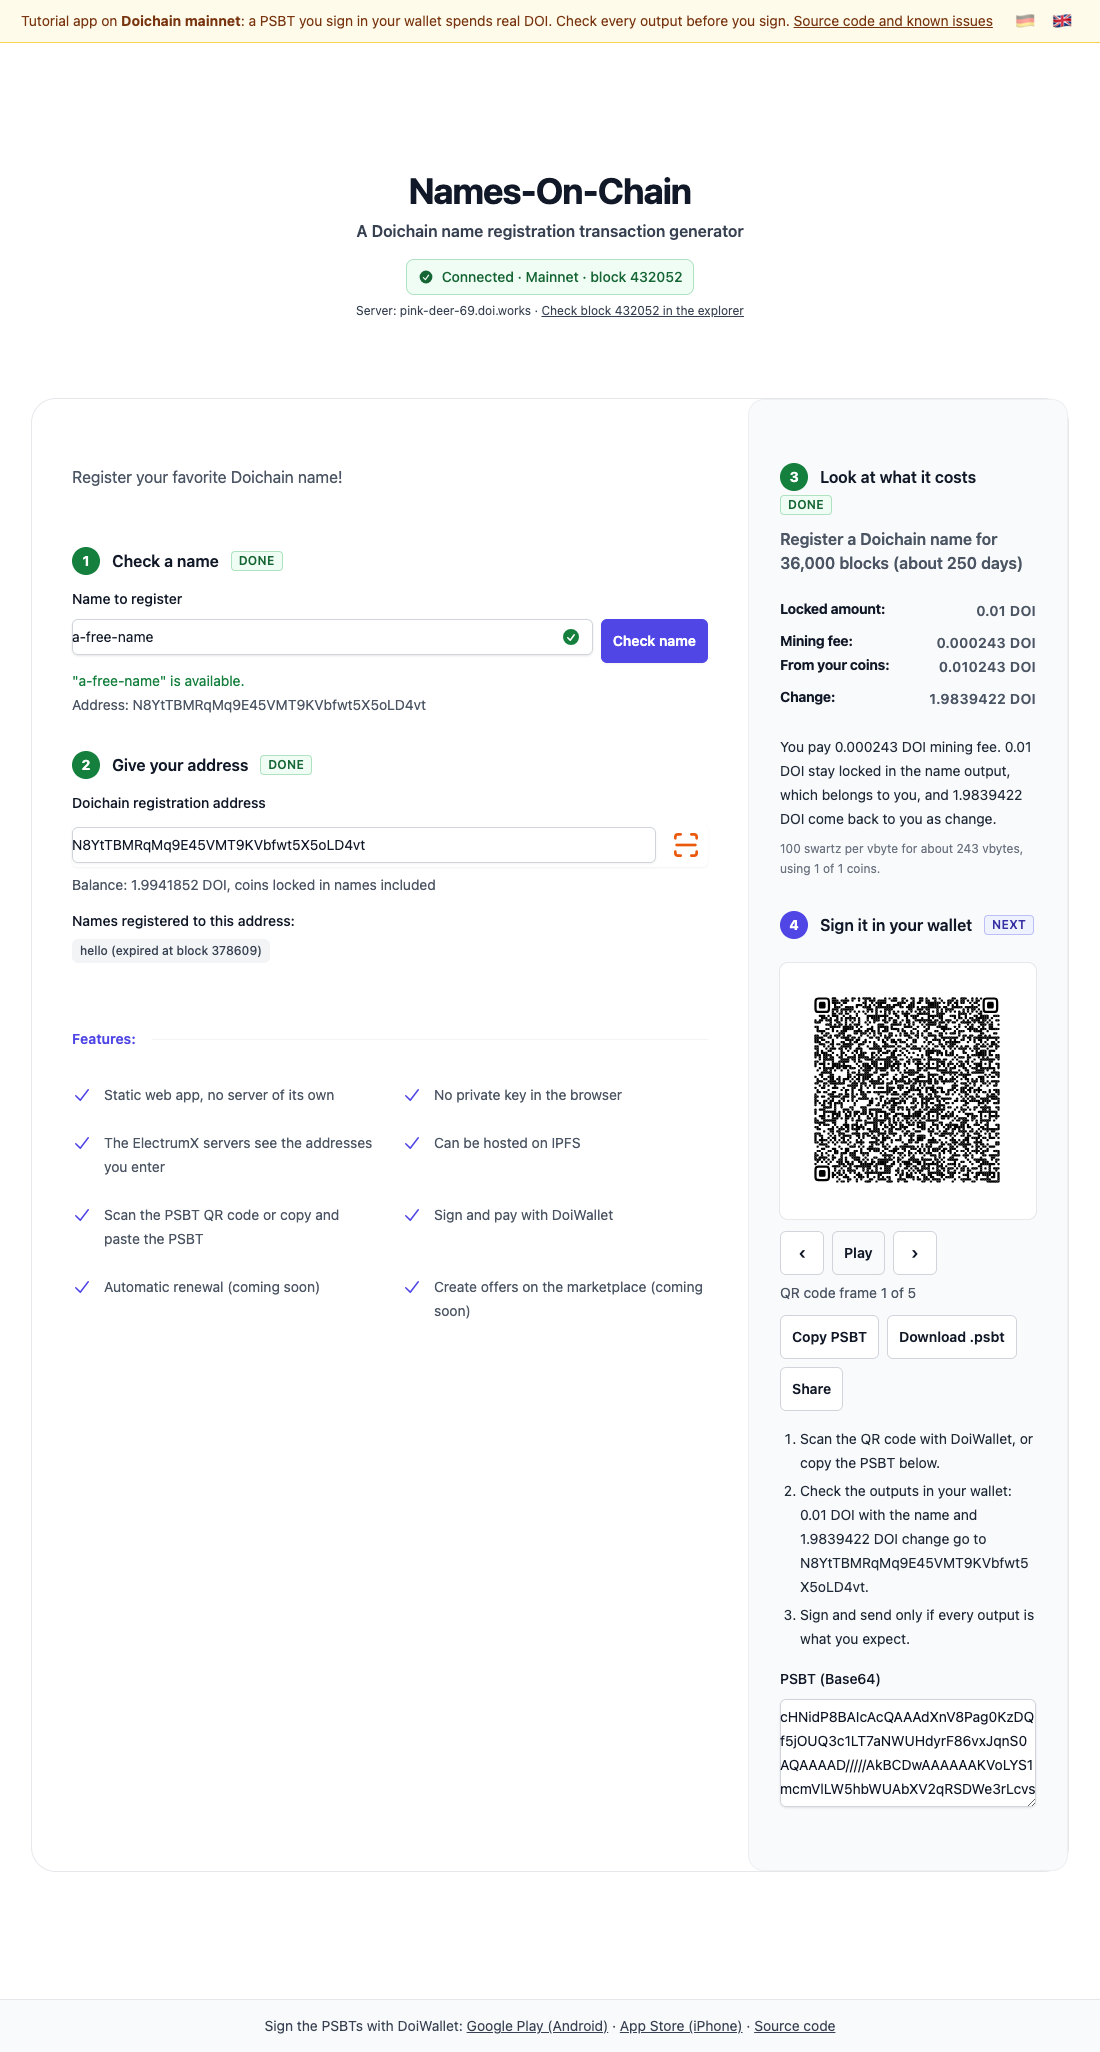
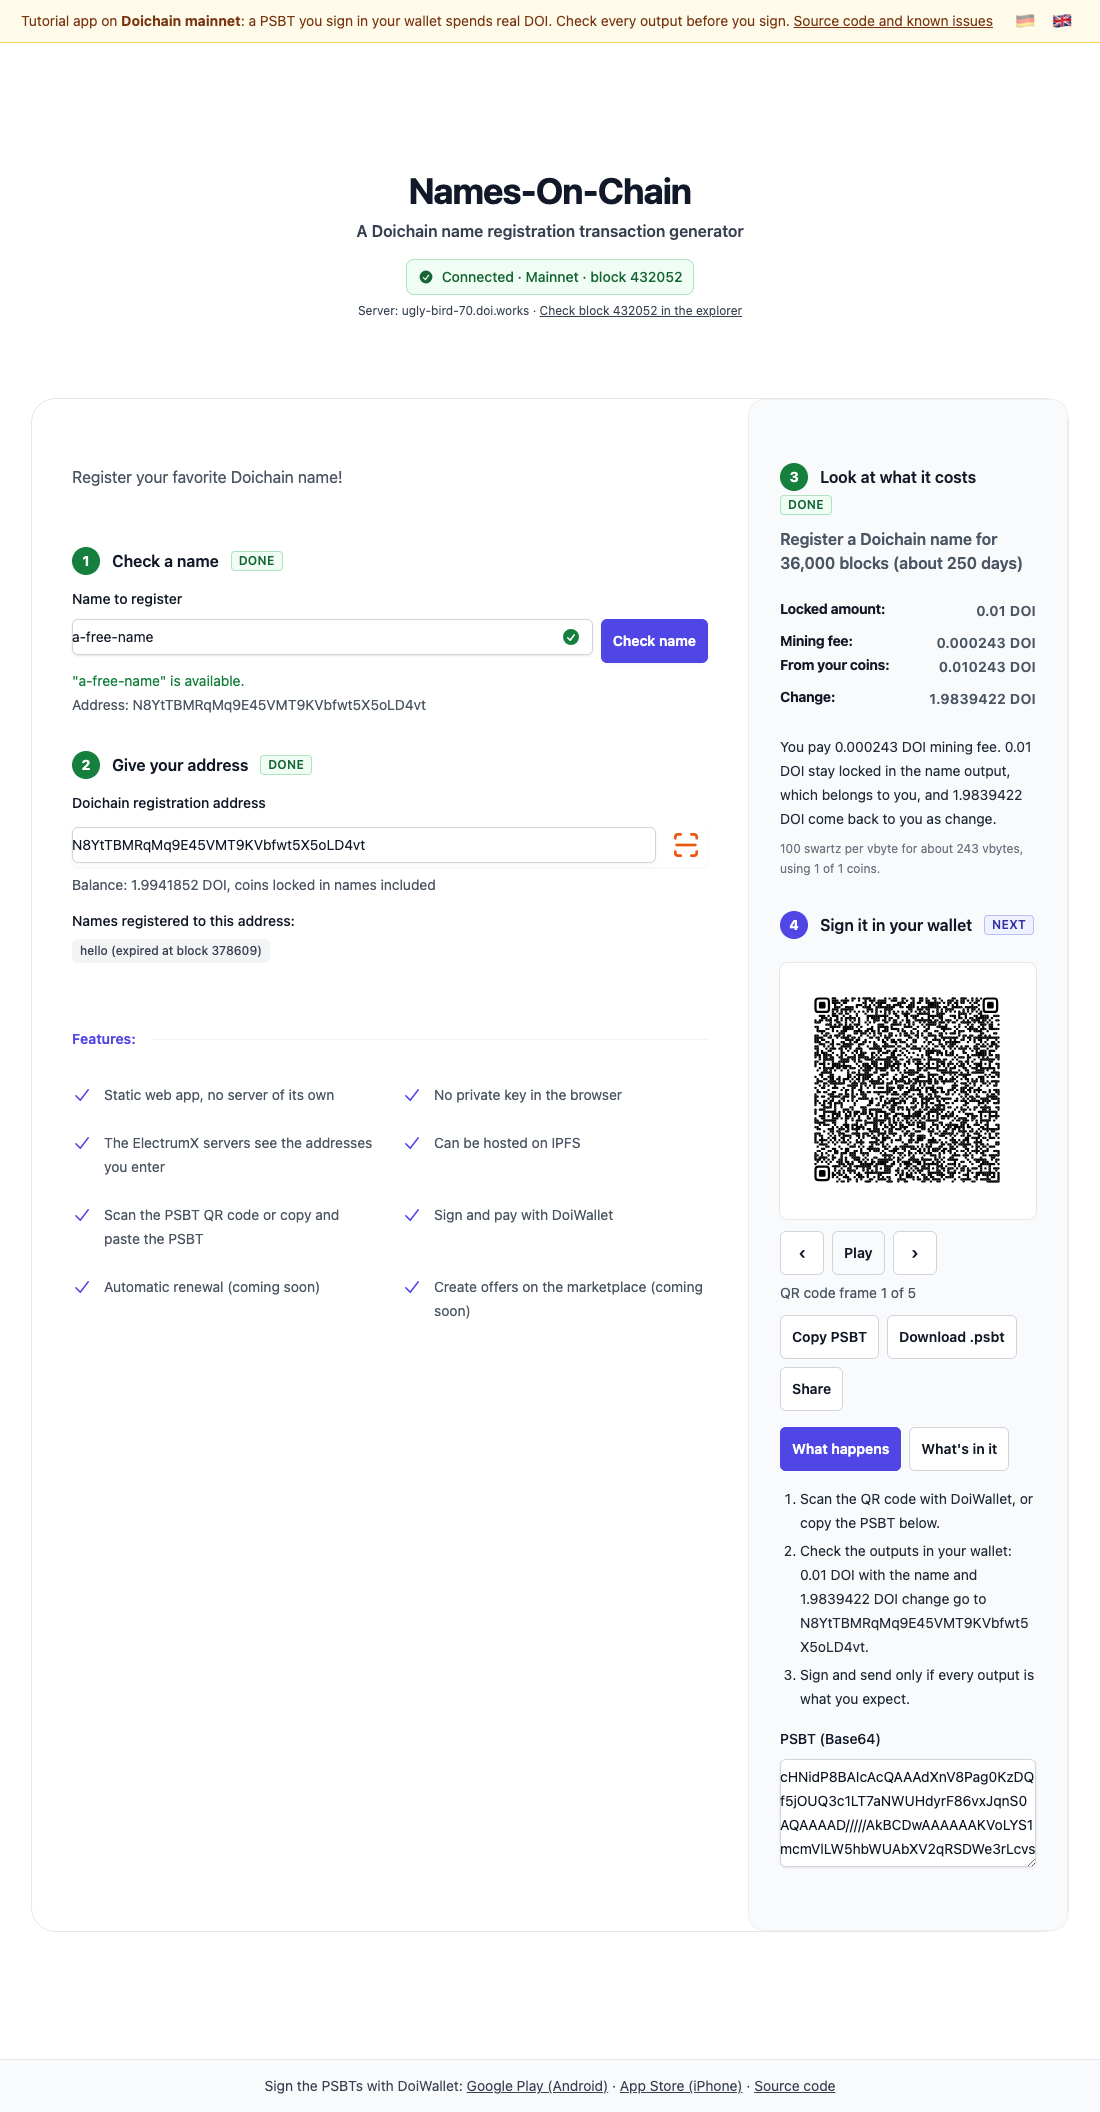
feat: two ways to look at a PSBT
Next to the QR code the page now switches between what happens – the
steps, as before – and what is in it: the version, the coins the
transaction spends, where they go, the name script as hex and read out,
and what is left for the miners (Doichain/names-on-chain#12).

Everything comes from `describePsbt.js`, which reads the PSBT the way the
wallet will read it, so nothing in the technical view depends on what a
server said. Four unit tests and one browser test walk it.

diff --git a/src/lib/components/PsbtQr.svelte b/src/lib/components/PsbtQr.svelte
@@ -1,6 +1,9 @@
 <script>
 	import { onDestroy, tick } from 'svelte';
+	import sb from 'satoshi-bitcoin';
 	import { _ } from '$lib/i18n/index.js';
+	import { describePsbt } from '$lib/doichain/describePsbt.js';
+	import { network } from '$lib/doichain/doichain-store.js';
 	import { renderBCUR } from '$lib/doichain/renderQR.js';
 
 	/** the PSBT to hand over, Base64, or undefined while there is nothing to hand over */
@@ -36,6 +39,34 @@
 
 	/** The QR code, brought into view on small screens once it is created */
 	let qrContainer;
+
+	/** 'simple' says what happens, 'technical' what the wallet will read */
+	let view = 'simple';
+
+	/** The PSBT as the wallet reads it; undefined while nothing is to be shown */
+	$: details = view === 'technical' && psbt ? read(psbt) : undefined;
+
+	/** @param {string} base64 */
+	function read(base64) {
+		try {
+			return describePsbt(base64, $network);
+		} catch (error) {
+			console.error('Could not read the PSBT:', error);
+			return undefined;
+		}
+	}
+
+	/** the transaction version, the way Doichain writes it */
+	const hex = (version) => '0x' + version.toString(16);
+
+	/** what an output pays to: the name, an address, or a script without one */
+	const payee = (output) =>
+		output.isName
+			? $_('psbt.technical.nameOutput') +
+				' (' +
+				(output.address ?? $_('psbt.technical.unknownAddress')) +
+				')'
+			: (output.address ?? $_('psbt.technical.unknownAddress'));
 
 	/** Sharing files (e.g. to DoiWallet on the same phone) works in this browser */
 	const canShareFiles = (() => {
@@ -239,9 +270,67 @@
 			<p class="mt-2 text-sm text-red-600">{$_('psbt.copyFailed')}</p>
 		{/if}
 	</div>
-	<ol class="mt-4 list-decimal space-y-1 break-words pl-5 text-sm leading-6 text-gray-800">
-		<slot name="steps" />
-	</ol>
+	<div class="mt-4 flex flex-wrap gap-2" role="group" aria-label={$_('psbt.views.label')}>
+		{#each ['simple', 'technical'] as which (which)}
+			<button
+				type="button"
+				on:click={() => (view = which)}
+				aria-pressed={view === which}
+				class="min-h-[44px] rounded-md px-3 text-sm font-semibold ring-1 ring-inset {view === which
+					? 'bg-indigo-600 text-white ring-indigo-600'
+					: 'bg-white text-gray-900 ring-gray-300 hover:bg-gray-50'} focus-visible:outline focus-visible:outline-2 focus-visible:outline-offset-2 focus-visible:outline-indigo-600"
+				>{$_(`psbt.views.${which}`)}</button
+			>
+		{/each}
+	</div>
+	{#if view === 'simple'}
+		<ol class="mt-4 list-decimal space-y-1 break-words pl-5 text-sm leading-6 text-gray-800">
+			<slot name="steps" />
+		</ol>
+	{:else if details}
+		<div class="mt-4 space-y-3 text-sm leading-6 text-gray-800">
+			<p>{$_('psbt.technical.version', { values: { version: hex(details.version) } })}</p>
+			<div>
+				<h4 class="font-semibold">{$_('psbt.technical.inputs')}</h4>
+				<ul class="mt-1 space-y-1">
+					{#each details.inputs as input (input.txid + input.n)}
+						<li class="break-all font-mono text-xs">
+							{$_('psbt.technical.input', {
+								values: {
+									txid: input.txid,
+									n: input.n,
+									amount: input.value === undefined ? '?' : sb.toBitcoin(input.value)
+								}
+							})}
+						</li>
+					{/each}
+				</ul>
+			</div>
+			<div>
+				<h4 class="font-semibold">{$_('psbt.technical.outputs')}</h4>
+				<ul class="mt-1 space-y-2">
+					{#each details.outputs as output, i (i)}
+						<li class="break-words">
+							{$_('psbt.technical.output', {
+								values: { amount: sb.toBitcoin(output.value), to: payee(output) }
+							})}
+							{#if output.isName}
+								<p class="mt-1 break-all font-mono text-xs text-gray-600">
+									{$_('psbt.technical.asm')}: {output.asm}
+								</p>
+								<p class="mt-1 break-all font-mono text-xs text-gray-600">
+									{$_('psbt.technical.script')}: {output.hex}
+								</p>
+							{/if}
+						</li>
+					{/each}
+				</ul>
+			</div>
+			{#if details.fee !== undefined}
+				<p>{$_('psbt.technical.fee', { values: { amount: sb.toBitcoin(details.fee) } })}</p>
+			{/if}
+		</div>
+	{/if}
 	<div class="mt-4">
 		<label for="psbt" class="block text-sm font-medium leading-6 text-gray-900"
 			>{$_('psbt.label')}</label

diff --git a/src/lib/doichain/describePsbt.js b/src/lib/doichain/describePsbt.js
@@ -1,0 +1,76 @@
+import {
+	address as addresses,
+	nameops,
+	Psbt,
+	script as scripts,
+	Transaction
+} from '@doichain/doichainjs-lib';
+
+/**
+ * Reads a PSBT the way a wallet reads it, so the page can show what is in it:
+ * which coins it spends, where they go, and what is left for the miners.
+ *
+ * Everything comes out of the PSBT itself – the same bytes the wallet signs –
+ * so nothing here depends on what a server said.
+ *
+ * @param {string} base64 - the PSBT
+ * @param {object} network - the network its addresses belong to
+ * @returns {{
+ *   version: number,
+ *   inputs: Array<{txid: string, n: number, value: number|undefined}>,
+ *   outputs: Array<{value: number, address: string|undefined, isName: boolean, hex: string, asm: string}>,
+ *   fee: number|undefined
+ * }}
+ */
+export function describePsbt(base64, network) {
+	const psbt = Psbt.fromBase64(base64, { network });
+
+	const inputs = psbt.txInputs.map((input, i) => ({
+		// a txid is the hash of the transaction, written the other way round
+		txid: Buffer.from(input.hash).reverse().toString('hex'),
+		n: input.index,
+		value: spentValue(psbt.data.inputs[i], input.index)
+	}));
+
+	const outputs = psbt.txOutputs.map((output) => {
+		// a name output pays its holder behind the name prefix
+		const owner = nameops.nameScriptOwner(output.script);
+		return {
+			value: output.value,
+			address: addressOf(owner ?? output.script, network),
+			isName: owner !== undefined,
+			hex: output.script.toString('hex'),
+			asm: scripts.toASM(output.script)
+		};
+	});
+
+	const spent = inputs.reduce(
+		(sum, input) => (input.value === undefined ? NaN : sum + input.value),
+		0
+	);
+	const paid = outputs.reduce((sum, output) => sum + output.value, 0);
+
+	return {
+		version: psbt.version,
+		inputs,
+		outputs,
+		// what a transaction does not pay out is the miner's, and only known with every input
+		fee: Number.isNaN(spent) ? undefined : spent - paid
+	};
+}
+
+/** The amount an input spends, in whichever form the PSBT carries it */
+function spentValue(data, n) {
+	if (data?.witnessUtxo) return data.witnessUtxo.value;
+	if (data?.nonWitnessUtxo) return Transaction.fromBuffer(data.nonWitnessUtxo).outs[n]?.value;
+	return undefined;
+}
+
+/** The address a script pays to, or undefined for a script that has none */
+function addressOf(script, network) {
+	try {
+		return addresses.fromOutputScript(script, network);
+	} catch {
+		return undefined;
+	}
+}

diff --git a/src/lib/doichain/describePsbt.test.js b/src/lib/doichain/describePsbt.test.js
@@ -1,0 +1,67 @@
+import { describe, expect, it } from 'vitest';
+import { DOICHAIN } from './doichain.js';
+import { buildNameRegistrationPsbt } from './buildNameRegistrationPsbt.js';
+import { describePsbt } from './describePsbt.js';
+import { getUtxosAndNamesOfAddress } from './utxoHelpers.js';
+import { fakeElectrumClient, fixture } from './__fixtures__/fakeElectrumClient.js';
+
+const STORAGE_FEE = 1_000_000;
+
+/** the coins of the funded address, as the app reads them from a server */
+async function coins() {
+	const { utxoAddresses } = await getUtxosAndNamesOfAddress(
+		fakeElectrumClient(),
+		fixture.fundedAddress,
+		DOICHAIN
+	);
+	return utxoAddresses;
+}
+
+/** the registration the app builds for a free name, as the wallet would read it */
+async function registration() {
+	const built = buildNameRegistrationPsbt(
+		await coins(),
+		'a-free-name',
+		DOICHAIN,
+		STORAGE_FEE,
+		fixture.fundedAddress,
+		fixture.fundedAddress,
+		fixture.fundedAddress,
+		100
+	);
+	expect(built.error).toBeUndefined();
+	return describePsbt(built.psbtBase64, DOICHAIN);
+}
+
+describe('describePsbt', () => {
+	it('reads the version Doichain needs for a name transaction', async () => {
+		expect((await registration()).version).toBe(0x7100);
+	});
+
+	it('names every coin the transaction spends, with its amount', async () => {
+		const { inputs } = await registration();
+		expect(inputs.length).toBeGreaterThan(0);
+		for (const input of inputs) {
+			expect(input.txid).toMatch(/^[0-9a-f]{64}$/);
+			expect(input.value).toBeGreaterThan(0);
+		}
+	});
+
+	it('marks the name output and reads the holder out of it', async () => {
+		const names = (await registration()).outputs.filter((output) => output.isName);
+		expect(names).toHaveLength(1);
+		expect(names[0].value).toBe(STORAGE_FEE);
+		expect(names[0].address).toBe(fixture.fundedAddress);
+		// OP_NAME_DOI, the name, an empty value, OP_2DROP OP_DROP, then the holder
+		expect(names[0].asm).toMatch(/^OP_10 [0-9a-f]+ OP_0 OP_2DROP OP_DROP /);
+		expect(names[0].hex.startsWith('5a')).toBe(true);
+	});
+
+	it('leaves the miners what the transaction does not pay out', async () => {
+		const { inputs, outputs, fee } = await registration();
+		const spent = inputs.reduce((sum, input) => sum + input.value, 0);
+		const paid = outputs.reduce((sum, output) => sum + output.value, 0);
+		expect(fee).toBe(spent - paid);
+		expect(fee).toBeGreaterThan(0);
+	});
+});

diff --git a/tests/psbt.spec.js b/tests/psbt.spec.js
@@ -59,3 +59,21 @@ test('hands the PSBT to the wallet as an animated QR code', async ({ page }) => 
 	await expect(page.getByRole('button', { name: 'Play' })).toBeVisible();
 	expect(errors).toEqual([]);
 });
+
+test('shows the PSBT as what happens, and as what is in it', async ({ page }) => {
+	await prepare(page);
+	await page.getByRole('button', { name: 'Create PSBT' }).click();
+	await expect(page.locator('.qr svg')).toBeVisible();
+
+	// the simple view is the one that opens
+	await expect(page.getByText(/Scan the QR code with DoiWallet/)).toBeVisible();
+
+	await page.getByRole('button', { name: "What's in it" }).click();
+	await expect(page.getByText('Version 0x7100, a Doichain name transaction')).toBeVisible();
+	await expect(page.getByText('Coins it spends')).toBeVisible();
+	await expect(page.getByText(/OP_10 [0-9a-f]+ OP_0 OP_2DROP OP_DROP/)).toBeVisible();
+	await expect(page.getByText(/Left for the miners: [\d.]+ DOI/)).toBeVisible();
+
+	await page.getByRole('button', { name: 'What happens' }).click();
+	await expect(page.getByText(/Scan the QR code with DoiWallet/)).toBeVisible();
+});
